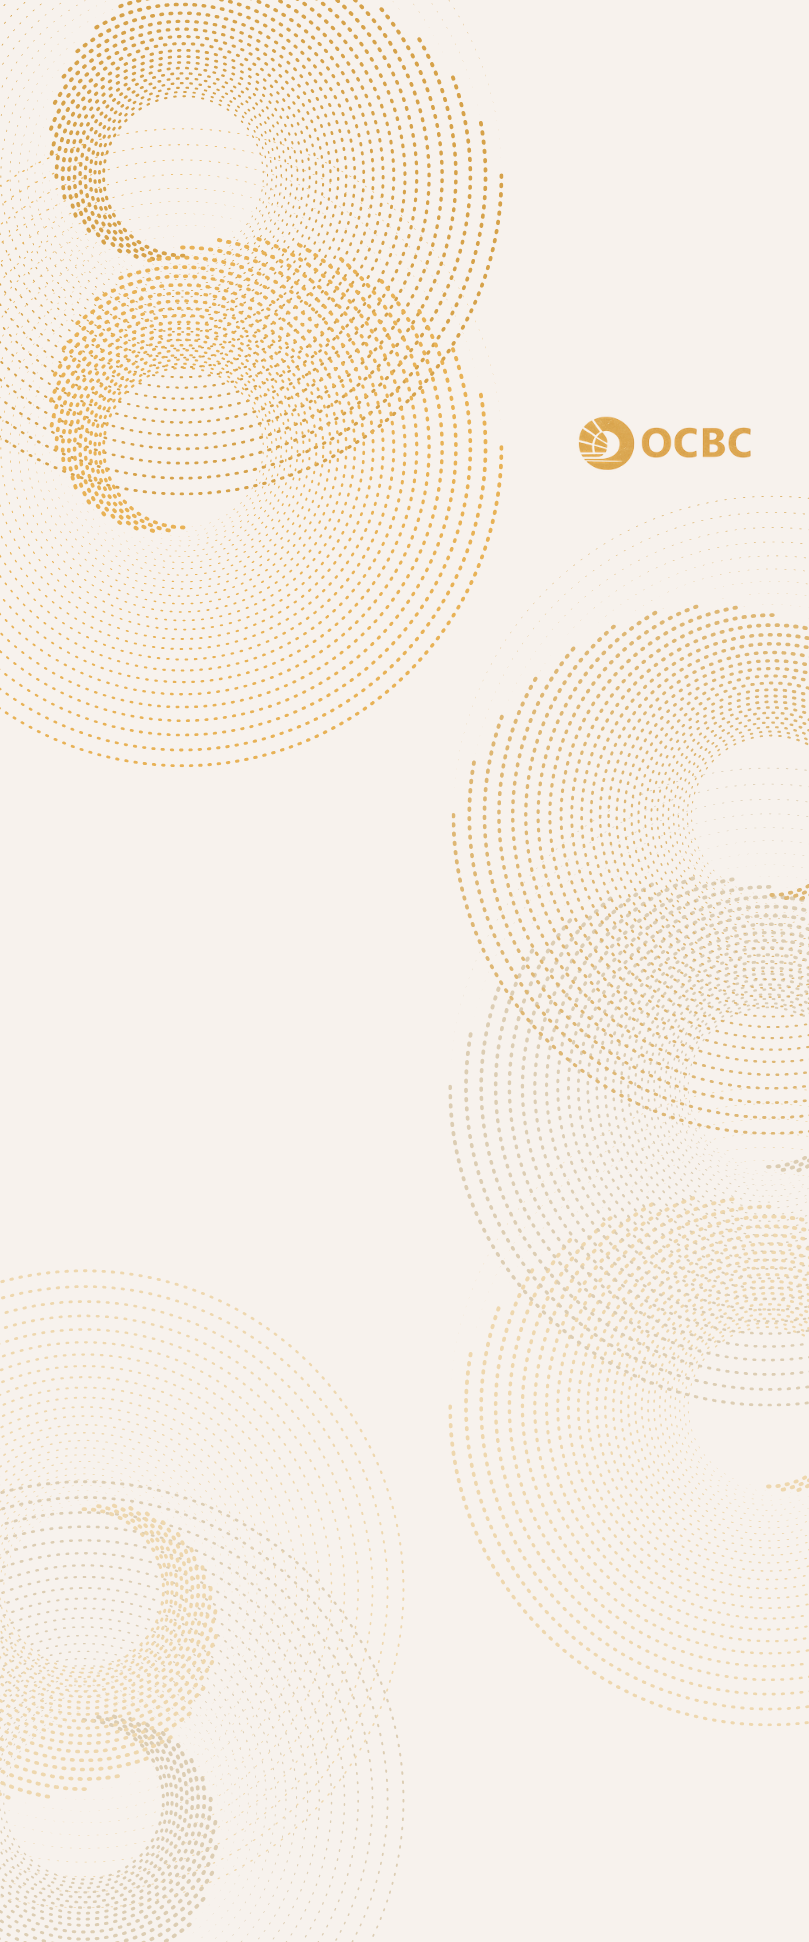
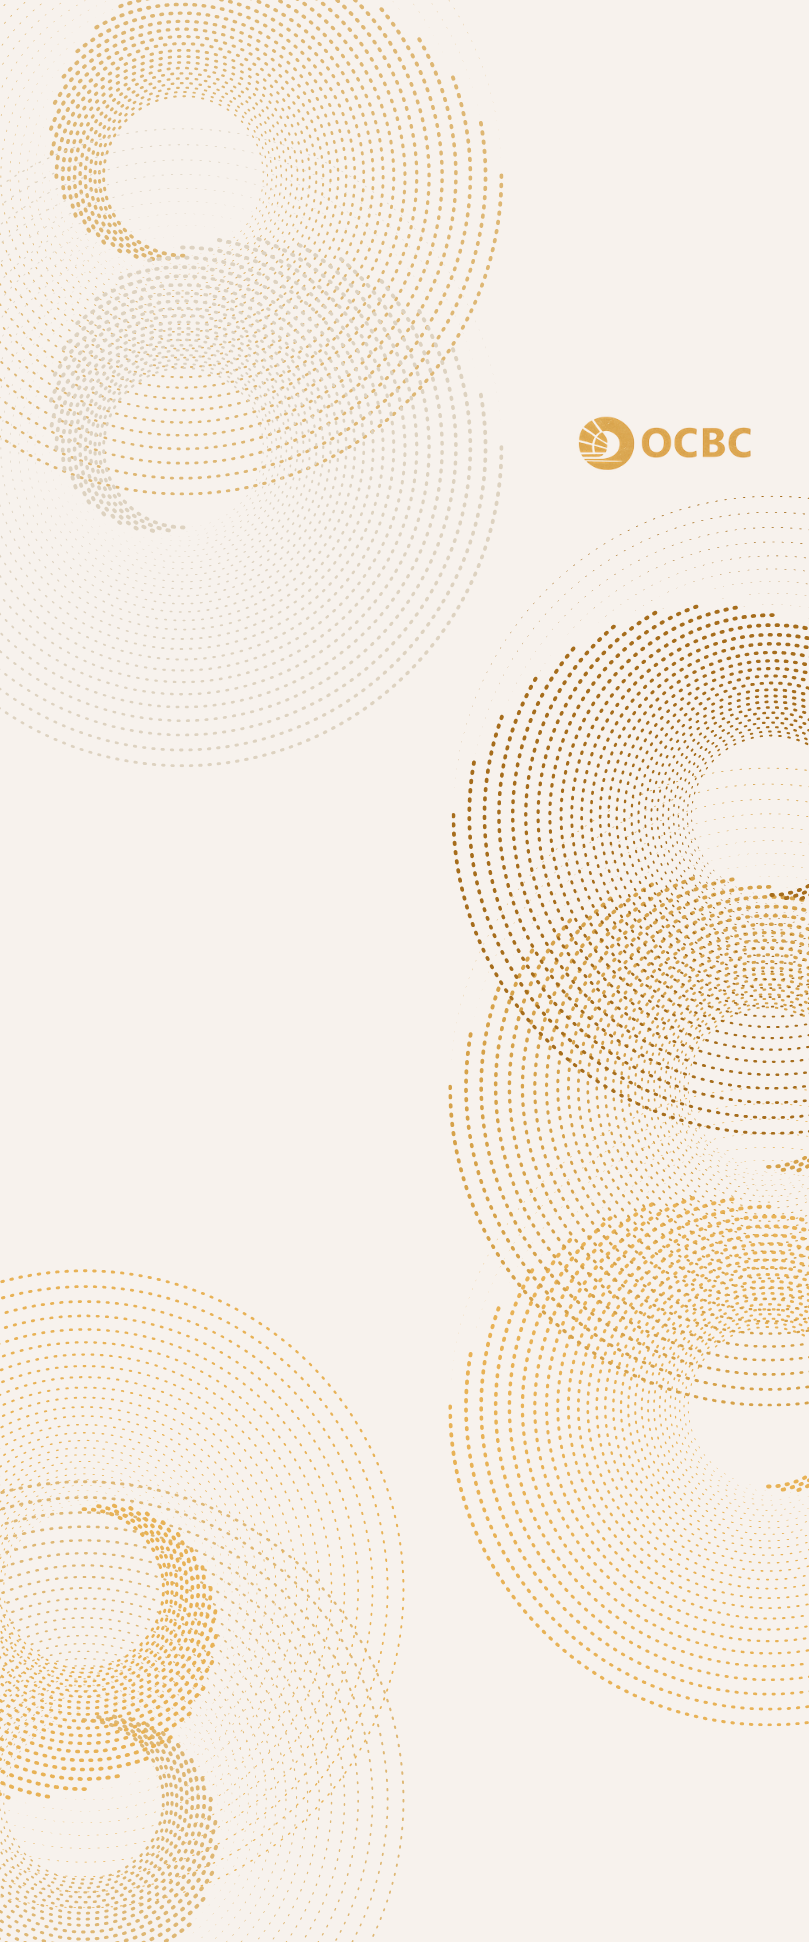
update ptt

diff --git a/index.html b/index.html
@@ -602,7 +602,7 @@
   .treename{font-family:'Sora';font-weight:800;font-size:14px}
   .treesay{font-size:12px;color:var(--ink2);line-height:1.45;margin-top:5px}
   .treetop .treesay{color:#e8d8ad}
-  .treeline{width:2px;height:18px;background:var(--line);margin:0 auto}
+  .treeline{width:2px;height:18px;background:#e3cb92;margin:0 auto}
   .treekids{display:flex;gap:11px;justify-content:center}
   .treekids.one{max-width:280px;margin:0 auto}
   .treekid{flex:1;background:#fff;border:1px solid var(--line);border-radius:14px;padding:14px 12px;text-align:center;box-shadow:var(--shadow);position:relative}
@@ -2209,10 +2209,12 @@ projection(){recalcBuckets();state.chart='line';state.invest=Math.max(1000,total
 
 /* ===== final orchestrator + agents (family tree) ===== */
 advice(){const sel=AGENTS.filter(a=>state.agents.includes(a.id));
-  return appbar('Final Advice','projection')+`<div class="pad">
-  <div class="eyebrow ai">Your team's sign-off</div>
+  return `<div style="position:relative">
+  <div style="position:absolute;top:130px;left:0;right:0;bottom:0;background:rgba(255,251,244,.38);z-index:0;pointer-events:none"></div>
+  <div style="position:relative;z-index:1;padding-top:50px">${appbar('Final Advice','projection',false,true)}<div class="pad">
+  <div class="eyebrow" style="background:linear-gradient(120deg,#e3b04a,#a6710f);-webkit-background-clip:text;background-clip:text;color:transparent">Your team's sign-off</div>
   <h1 style="margin-bottom:4px">The Committee On Your Final Mix</h1>
-  <p class="sub" style="margin-bottom:14px">They've seen your confirmed portfolio and its projection. Here's their closing word.</p>
+  <p class="sub" style="margin-bottom:14px;color:var(--ink2)">They've seen your confirmed portfolio and its projection. Here's their closing word.</p>
 
   <div class="tree">
     <div class="treetop"><div class="pixframe gold" style="width:56px">${avatar(JUDGE)}</div>
@@ -2221,15 +2223,15 @@ advice(){const sel=AGENTS.filter(a=>state.agents.includes(a.id));
     </div>
     <div class="treeline"></div>
     <div class="treekids ${sel.length===1?'one':''}">
-      ${sel.map(a=>`<div class="treekid"><span class="kidconn"></span><div class="miniframe" style="width:42px">${avatar(a)}</div>
+      ${sel.map(a=>`<div class="treekid" style="background:linear-gradient(180deg,#fffdf9,#fff);border-color:#e8d6a8"><span class="kidconn" style="background:#e3cb92"></span><div class="miniframe" style="width:42px">${avatar(a)}</div>
         <div class="treename" style="color:${a.color}">${a.name}</div>
         <div class="treesay">${AGENT_ADVICE(a.id)}</div></div>`).join('')}
     </div>
   </div>
 
-  <button class="btn primary" onclick="go('trade')">I'm Ready To Trade →</button>
-  <div style="text-align:center;margin-top:10px"><a onclick="go('portfolio')" style="font-size:12.5px;color:var(--red);font-weight:600;cursor:pointer">← Adjust the mix first</a></div>
-</div>`;},
+  <button class="btn gold" onclick="go('trade')">I'm Ready To Trade →</button>
+  <div style="text-align:center;margin-top:10px"><a onclick="go('portfolio')" style="font-size:12.5px;color:#a6710f;font-weight:600;cursor:pointer">← Adjust the mix first</a></div>
+</div></div></div>`;},
 
 /* ===== trade: Oscar AI fed; iOCBC equities / OCBC the rest ===== */
 trade(){const prods=PRODUCTS.filter(p=>p.bucket);const total=totalVal();
@@ -3105,7 +3107,8 @@ function render(){
     portfolio:{img:'images/ocbc-ea-portfolio.png',top:-40,width:100},
     link:{img:'images/ocbc-ea-link.png',top:-40,width:100},
     tune:{img:'images/ocbc-ea-sandbox.png',top:-40,width:100},
-    projection:{img:'images/ocbc-ea-projection.png',top:-40,width:100}
+    projection:{img:'images/ocbc-ea-projection.png',top:-40,width:100},
+    advice:{img:'images/ocbc-ea-finaladvice.png',top:-40,width:100}
   };
   $('statusbar').className='statusbar'+(cur==='home'||cur==='analyze'||BG_SCREENS[cur]?' onhero':cur==='login'?' over':'');
   if($('screenbg')){
